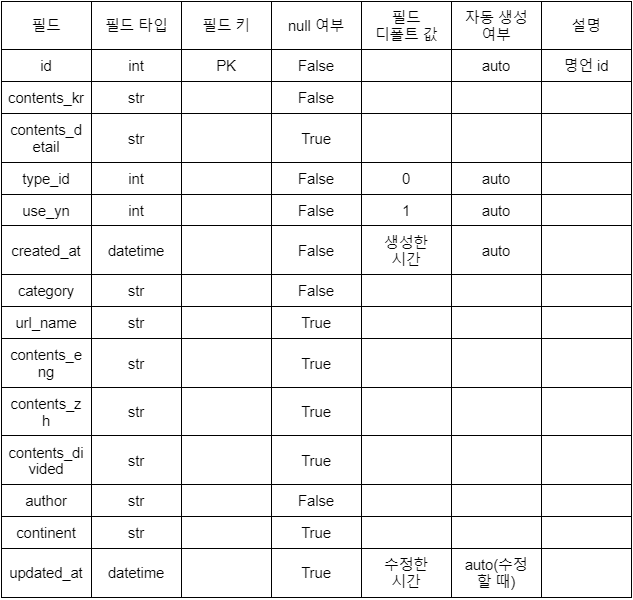
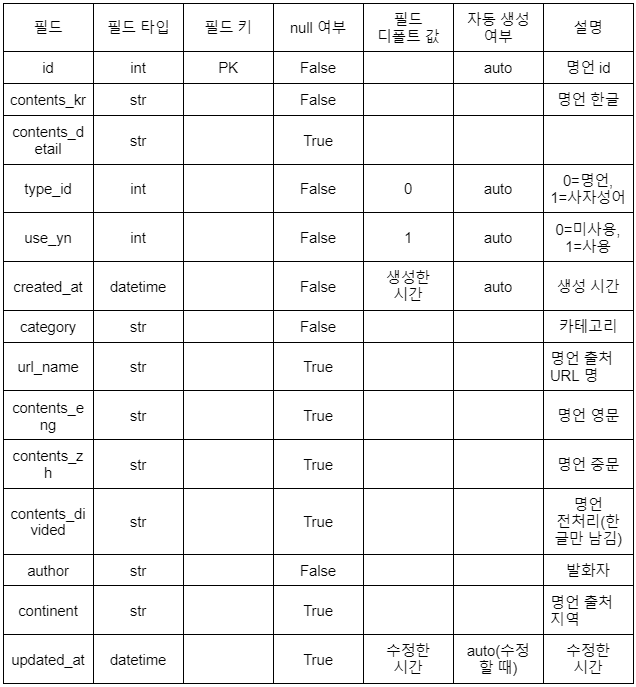
update readme

Changed region(s): [[0.0, 0.0, 1.0, 1.0]]

diff --git a/README.md b/README.md
@@ -49,6 +49,8 @@ UVICORN_PORT=8000
 ```
 
 ## 2. DB 테이블
+- 사용하지 않는 필드라도 같은 구조여야 python 코드와 연동이 됨*
+- DB 테이블 구조
 
 ### 2.1 saying
 명언 테이블
@@ -58,3 +60,21 @@ UVICORN_PORT=8000
 ### 2.2 fouchar
 사자성어 테이블
 
+![alt text](fourchar_table.png)
+
+### 2.3 category
+카테고리 테이블
+
+![alt text](category_table.png)
+
+## 3. 컴포넌트 구조 및 플로우 차트
+
+### 3.1 구조
+
+![alt text](Backend.png)
+
+### 3.2 플로우 차트
+
+- 명언 루트
+
+![alt text](Saying_route.png)
